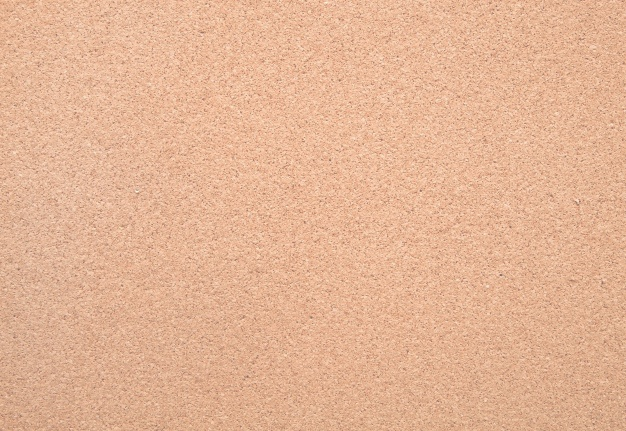
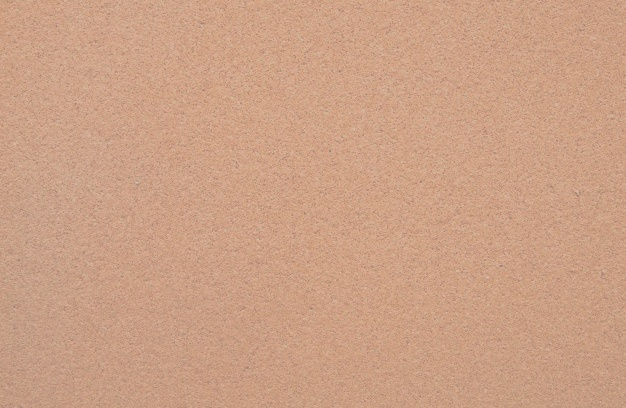
finished styling of modal for now

diff --git a/public/css/styles.css b/public/css/styles.css
@@ -4,8 +4,12 @@
 
 body {
     background-color: bisque;
-    font-family: Arial, Helvetica, sans-serif;
+    /* font-family: Arial, Helvetica, sans-serif; */
+    font-family: "Gill Sans", "Gill Sans MT", Calibri, "Trebuchet MS",
+        sans-serif;
 }
+
+/* ------------------------------------ MAIN PAGE ------------------------------------*/
 
 #main {
     /* border: 1px blue solid; */
@@ -70,9 +74,13 @@ figure {
 }
 
 #modal {
-    /* border: 1px blue solid; */
-    /* border-radius: 5px; */
+    border: 2px rgba(0, 0, 0, 0.342) solid;
+    border-top: 1px rgba(0, 0, 0, 0.342) solid;
+    border-left: 1px rgba(0, 0, 0, 0.342) solid;
     background-color: rgba(0, 0, 0, 0.582);
+    background-image: url("retina_wood2.png");
+    border-radius: 2px;
+    box-shadow: inset -1px -1px 1px 1px rgba(0, 0, 0, 0.39);
     box-sizing: border-box;
     height: 100%;
     padding: 25px;
@@ -80,10 +88,11 @@ figure {
 }
 
 #modal-content {
-    border: 2px lightgrey solid;
-    /* border-radius: 5px; */
+    /* border: 1px rgba(0, 0, 0, 0.459) solid; */
+    border-radius: 2px;
+    box-shadow: inset 1px 1px 1px 1px rgba(0, 0, 0, 0.39);
     /* background-color: antiquewhite; */
-    background-image: url("cork2.jpg");
+    background-image: url("cork-board.png");
     box-sizing: border-box;
     padding: 10px;
     height: 100%;
@@ -91,7 +100,7 @@ figure {
     /* overflow-x: hidden; */
 }
 
-/* ------------------ Modal Image ------------------ */
+/* ------------------ Modal Image & Description------------------ */
 
 #modal-image-container {
     /* border: 2px blueviolet solid; */
@@ -107,21 +116,28 @@ figure {
     /* border: 1px red solid; */
     border-radius: 10px;
     box-sizing: border-box;
-    display: inline-block;
-    max-width: 90%;
+    display: flex;
+    /* max-width: 70%; */
+    min-height: 50vh;
+    max-height: 90vh;
+    max-width: 80vw;
+    overflow: auto;
+
+    align-items: center;
+
     padding: 5px;
     margin: 10px;
-    margin-bottom: 20px;
+    margin-bottom: 40px;
 }
 
 #modal-image {
-    width: 100%;
-    object-fit: contain;
+    max-width: 78vw;
+    max-height: 83vh;
+    box-shadow: 2px 2px 2px rgba(0, 0, 0, 0.32);
 }
 
 #modal-image-container h2 {
     /* border: 1px red solid; */
-    /* text-align: left; */
     width: 100%;
 }
 /* #divider {
@@ -130,24 +146,70 @@ figure {
     width: 80%;
 } */
 
-.image-desc {
+#image-desc {
     /* border: 2px red solid; */
-    background-color: white;
-    padding: 10px;
-    /* align-self: flex-start; */
+    background-color: #fff;
+    /* background-image: url("paper_fibers.png"); */
+    box-shadow: 3px 5px 3px rgba(0, 0, 0, 0.32);
+
+    margin: 30px;
+    max-width: 40vw;
     text-align: left;
 }
 
-.image-desc h2 {
-    border-bottom: 1px red solid;
+#image-desc h2 {
+    border-bottom: 2px rgba(255, 0, 0, 0.685) solid;
     font-size: 30px;
 }
+#desc-title {
+    padding-left: 20px;
+    padding-top: 10px;
+    color: rgb(58, 58, 58);
+}
+
 .img-desc-text {
     font-size: 25px;
 }
 
-.image-desc p {
-    border-bottom: 1px rgb(90, 153, 249) solid;
+#image-desc p {
+    /* border-bottom: 1px rgb(90, 153, 249) solid; */
+    overflow: scroll;
+
+    /* Idea for the approach to underlining the text of this element within this selector comes from:
+      https://css3.wikidot.com/blog:lined-paper-with-css */
+
+    /* for padding:
+        -first value determines how close the text is to the lines
+        -fourth value determines left-right padding */
+    padding: 10px 5px 4px 30px;
+    position: relative;
+    color: #444;
+
+    background: #fff;
+    background: -webkit-gradient(
+            linear,
+            0 0,
+            0 100%,
+            from(#d9eaf3),
+            color-stop(4%, #fff)
+        )
+        0 4px;
+    background: -webkit-linear-gradient(top, rgb(90, 153, 249) 0%, #fff 8%) 0
+        4px;
+    background: -moz-linear-gradient(top, rgb(90, 153, 249) 0%, #fff 8%) 0 4px;
+    background: -ms-linear-gradient(top, rgb(90, 153, 249) 0%, #fff 8%) 0 4px;
+    background: -o-linear-gradient(top, rgb(90, 153, 249) 0%, #fff 8%) 0 4px;
+    background: linear-gradient(top, rgb(90, 153, 249) 0%, #fff 8%) 0 4px;
+
+    /* line-height value must match background size px */
+    line-height: 35px;
+
+    /* background-size px value must match line-height value */
+    -webkit-background-size: 100% 35px;
+    -moz-background-size: 100% 35px;
+    -ms-background-size: 100% 35px;
+    -o-background-size: 100% 35px;
+    background-size: 100% 35px;
 }
 
 #modal-image-container p {
@@ -170,17 +232,32 @@ figure {
 
 /* ------ Input Comment --------------- */
 #submit-comment-div-id {
-    display: inline-block;
+    display: block;
+    margin: 50px auto;
+    width: 30%;
 }
 #submit-comment-div-id * {
     /* border: 1px red solid; */
     display: block;
     font-size: 20px;
 }
+#submit-comment-div-id button {
+    border: 2px grey solid;
+    border-radius: 2px;
+    cursor: pointer;
+    font-weight: 900;
+}
+#submit-comment-div-id button:hover {
+    background-color: grey;
+    color: white;
+}
+#submit-comment-div-id button:focus {
+    outline: none;
+    background-color: rgb(82, 82, 82);
+}
 
 .comm {
-    border: 2px red solid;
-    margin-top: 15px;
+    margin-top: 25px;
 }
 
 .comment-input {
@@ -193,14 +270,23 @@ figure {
 }
 .comment-input:focus {
     outline: none;
+    border-bottom: 2px black solid;
 }
 
 /* ------ Comments --------------- */
+#comments-title {
+    font-size: 30px;
+    color: rgb(58, 58, 58);
+    /* -webkit-text-stroke-width: 1px;
+    -webkit-text-stroke-color: rgba(0, 0, 0, 0.687); */
+}
+
 #comments-container {
     /* border: 1px solid red; */
     border-radius: 10px;
-    background-color: rgba(0, 0, 0, 0.276);
-    margin-top: 50px;
+    background-color: rgba(255, 255, 255, 0.377);
+    /* margin-top: 50px; */
+    padding: 20px;
     display: flex;
     flex-direction: column;
     align-items: flex-start;
@@ -221,13 +307,15 @@ figure {
     margin: 20px;
     max-width: 50%;
 
-    /* I got the following styling for this .postit class from the blog post at the url in the next line */
-    /*      https://mentormate.com/blog/css-postit-note/      */
+    /* The following styling for this .postit class (with minor adjustments made by me) comes from the blog post at the url:
+            https://mentormate.com/blog/css-postit-note/      */
+
     border: 1px solid #e8e8e8;
     border-top: 20px solid #fdfd86;
     /* font-family: "Reenie Beanie"; */
     /* font-size: 22px; */
     border-bottom-right-radius: 60px 5px;
+
     /* display: inline-block; */
     background: #ffff88; /* Old browsers */
     background: -moz-linear-gradient(
@@ -274,25 +362,11 @@ figure {
         #ffff88 82%,
         #ffffc6 100%
     ); /* W3C */
-    filter: progid:DXImageTransform.Microsoft.gradient( startColorstr='#ffff88', endColorstr='#ffffc6',GradientType=1 ); /* IE6-9 fallback on horizontal gradient */
-}
+    /* IE6-9 fallback on horizontal gradient */
+    /* filter: progid:DXImageTransform.Microsoft.gradient( startColorstr='#ffff88', endColorstr='#ffffc6',GradientType=1 ); */
 
-/* .postit:after {
-    content: "";
-    position: absolute;
-    z-index: -1;
-    right: -0px;
-    bottom: 20px;
-    width: 200px;
-    height: 25px;
-    background: rgba(0, 0, 0, 0.2);
-    box-shadow: 2px 15px 5px rgba(0, 0, 0, 0.4);
-    -moz-transform: matrix(-1, -0.1, 0, 1, 0, 0);
-    -webkit-transform: matrix(-1, -0.1, 0, 1, 0, 0);
-    -o-transform: matrix(-1, -0.1, 0, 1, 0, 0);
-    -ms-transform: matrix(-1, -0.1, 0, 1, 0, 0);
-    transform: matrix(-1, -0.1, 0, 1, 0, 0);
-} */
+    box-shadow: 2px 8px 5px rgba(0, 0, 0, 0.4);
+}
 
 .comment-user-date-div {
     margin-top: 20px;
@@ -314,9 +388,9 @@ figure {
     font-weight: bold;
     cursor: pointer;
     position: fixed;
-    /* Relation to .modal-background {padding: top: same, right: +3px } */
+    /* Relation to .modal-background {padding: top: same, right: +5px } */
     top: 10px;
-    right: 43px;
+    right: 45px;
 }
 
 #x:hover {

diff --git a/public/index.html b/public/index.html
@@ -51,17 +51,20 @@
                     <p id="x" @click="closeMe">X</p>
 
                     <div id="modal-image-container">
+                        
                         <div id="modal-image-div">
                             <img id="modal-image"  :src="image.url" :alt="image.description">
+                        </div>
+                        
+                        <div id="image-desc">
+                            <h2><div id="desc-title">Title: {{image.title}}<div></h2>
+                            <p class="img-desc-text">Description (just adding some more text to see what it would look like hahahahahaahahahhahaaaaaa): {{image.description}}
+                                <br/><span class="submission-info">Uploaded by {{image.username}} on {{image.created_at}}</span> </p>
+                            <!-- <p class="submission-info">Uploaded by {{image.username}} on {{image.created_at}}</p> -->
                         </div>
                     
                         <!-- <div id="divider"></div> -->
 
-                        <div class="image-desc">
-                            <h2>Title: {{image.title}}</h2>
-                            <p class="img-desc-text">Description: {{image.description}}</p>
-                            <p class="submission-info">Uploaded by {{image.username}} on {{image.created_at}}</p>
-                        </div>
                         <!-- <div id="divider2"></div> -->
                     </div>
 
@@ -71,16 +74,17 @@
 
 
                     <div class="submit-comment-div postit" id="submit-comment-div-id">
-                        <!-- for text fields, use v-model='propertyKeyOfDataObjectInScript.js' connects the inputted value to the property in the 'data' (in script.js).  -->
-                        <input v-model='newComment' type="text" name='newComment' placeholder='Comment Here' class="comment-input">
-                        <input v-model='commenter' type="text" name='commenter' placeholder='username' class="comment-input comm">
+                        <!-- for text fields, v-model='propertyKeyOfDataObjectInScript.js' connects the inputted value to the property in the 'data' (in script.js).  -->
+                        <p>Add Your Comment:</p>
+                        <input v-model='newComment' type="text" name='newComment' placeholder='Comment Here' class="comment-input comm">
+                        <input v-model='commenter' type="text" name='commenter' placeholder='Username' class="comment-input comm">
                         
                         <button @click='submitComment' class="comm">Submit</button>
                     </div>
                     
                     
-                    <h3 id="comments-title">Comments:</h3>
                     <div id="comments-container">
+                        <h3 id="comments-title">Comments:</h3>
                         <div v-for="com in comments" class="postit comment-div">
                             <p class="comment">{{com.comment}}</p>
                             <div class="comment-user-date-div submission-info">

diff --git a/public/js/script.js b/public/js/script.js
@@ -65,6 +65,8 @@
                     .catch(function (err) {
                         console.log("ERROR in POST /submit-comment: ", err);
                     });
+                this.comment = "";
+                this.username = "";
             },
         },
     });
